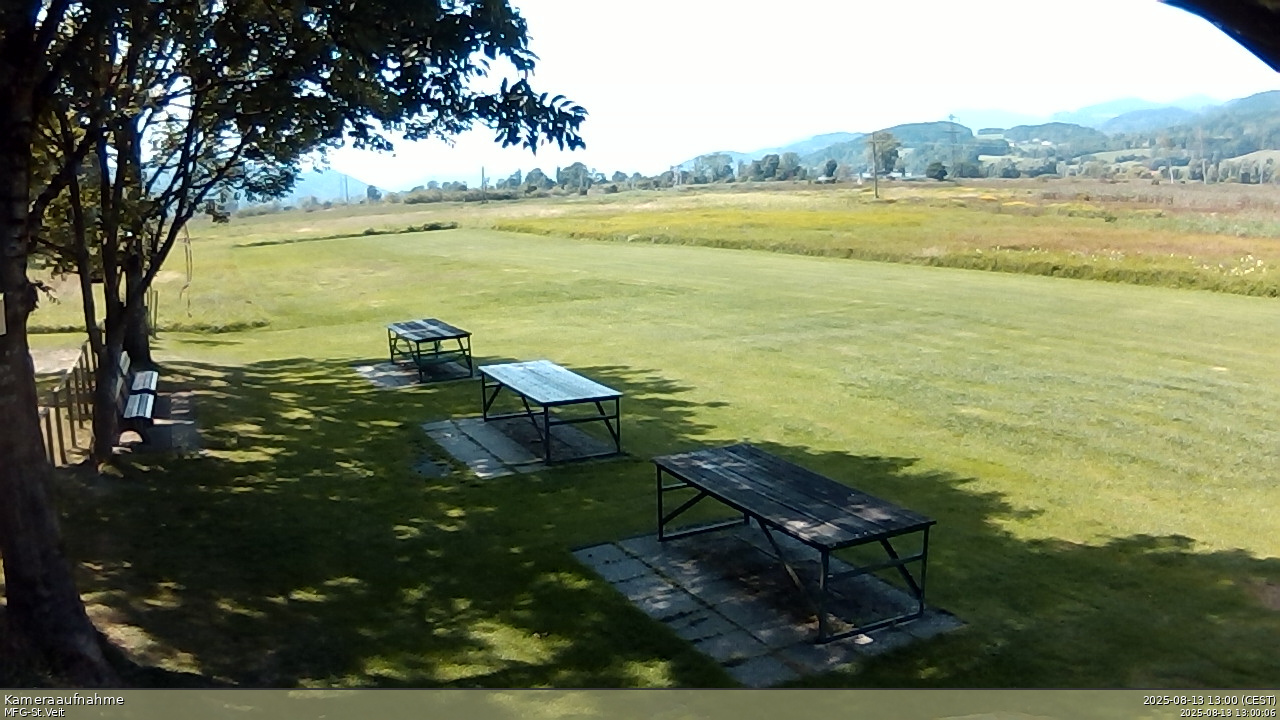
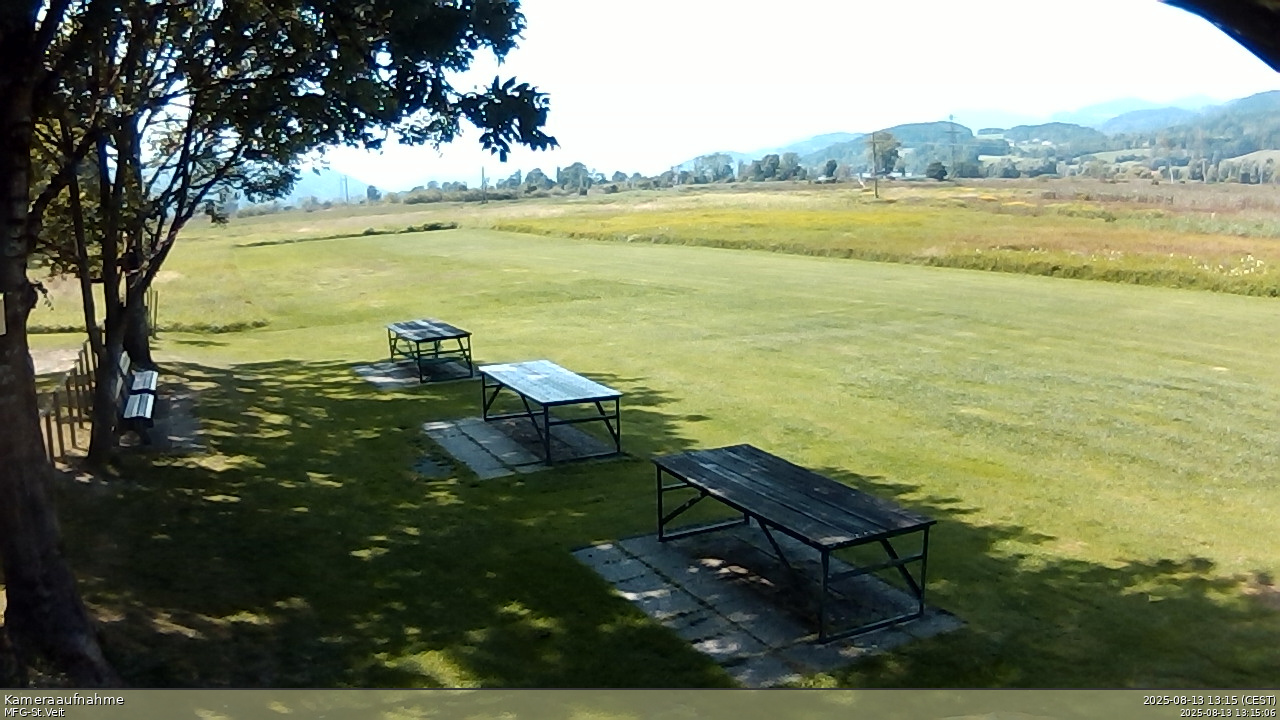
Automatischer Upload: 2025-08-13 13:15:08

diff --git a/index.html b/index.html
@@ -118,14 +118,14 @@
 
     <div class="info">
         <p class="highlight">Telemetriewerte Flugplatz</p>
-        <p><strong>Batterie links:</strong> 14.51 V</p>
-        <p><strong>Batterie rechts:</strong> 14.27 V</p>
-        <p><strong>Innentemperatur:</strong> 25.4 Grad</p>
-        <p><strong>Außentemperatur:</strong> 28.1 Grad</p>
+        <p><strong>Batterie links:</strong> 14.52 V</p>
+        <p><strong>Batterie rechts:</strong> 14.26 V</p>
+        <p><strong>Innentemperatur:</strong> 25.5 Grad</p>
+        <p><strong>Außentemperatur:</strong> 28.3 Grad</p>
     </div>
 
     <div class="footer">
-        <p>MFG-St.Veit/Glan - aktualisiert am 2025-08-13 13:00:08
+        <p>MFG-St.Veit/Glan - aktualisiert am 2025-08-13 13:15:08
     </div>
 </body>
 </html>
